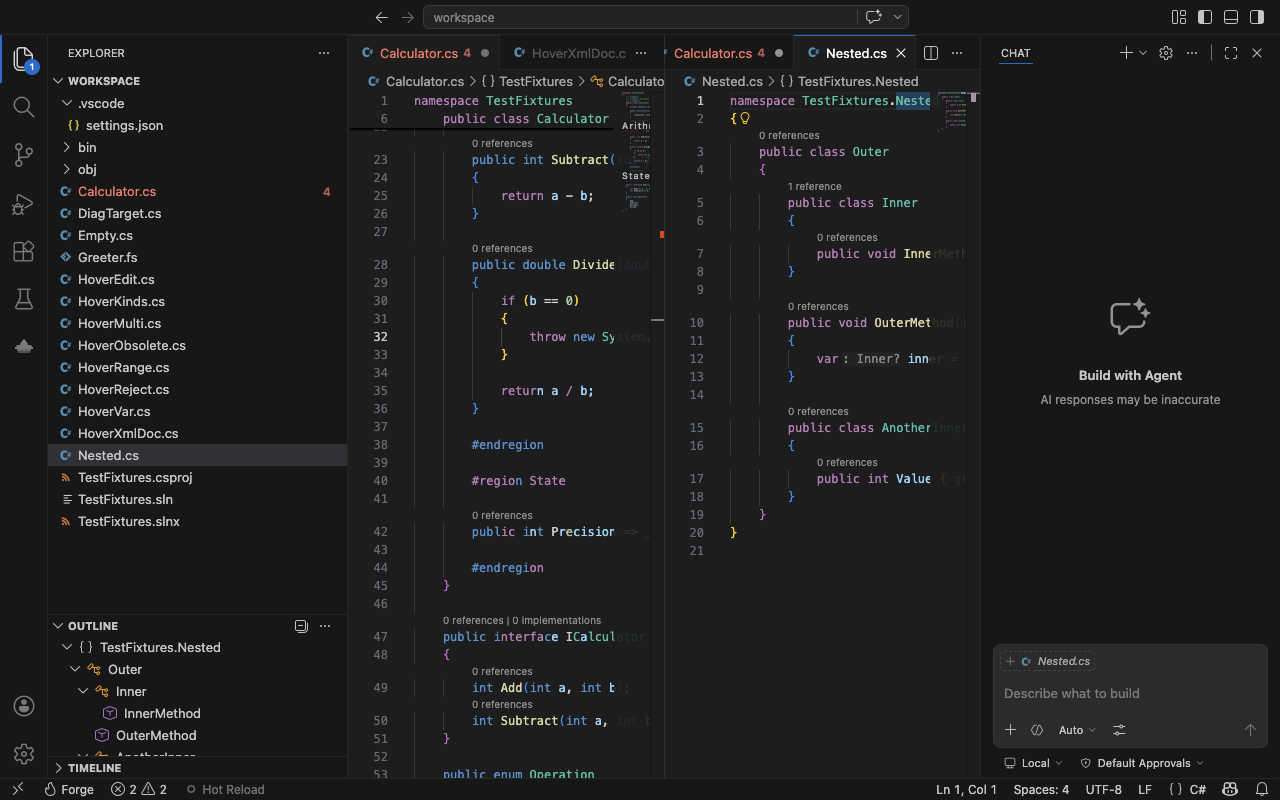
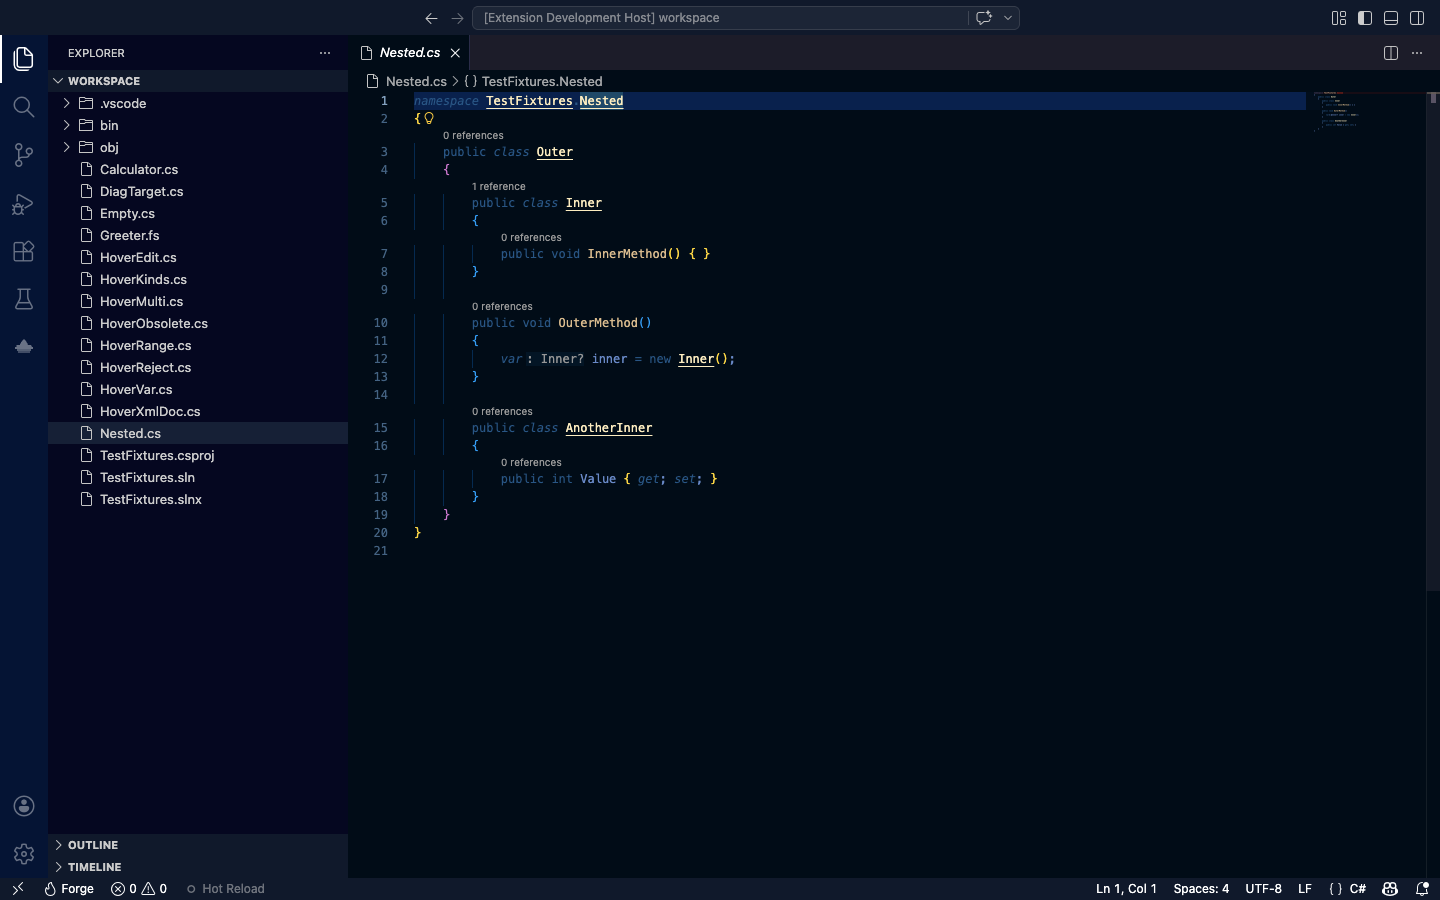
screenshot fixes

diff --git a/editors/vscode/src/test/suite/lsp-integration.test.ts b/editors/vscode/src/test/suite/lsp-integration.test.ts
@@ -362,16 +362,36 @@ suite('LSP Integration — Fixture Files', () => {
     this.timeout(LSP_RESPONSE_TIMEOUT_MS + 10_000);
     const uri = vscode.Uri.file(path.join(fixtureDir, 'Calculator.cs'));
     const doc = await vscode.workspace.openTextDocument(uri);
-    await vscode.window.showTextDocument(doc);
+    const editor = await vscode.window.showTextDocument(doc);
 
     const ranges = await waitForFoldingRanges(uri);
     assert.ok(ranges.length >= 5, `Expected ≥5 folding ranges, got ${ranges.length}`);
 
+    // Must have both region and non-region (method/class body) folding ranges
     const regionRanges = ranges.filter((r) => r.kind === vscode.FoldingRangeKind.Region);
-    assert.ok(
-      regionRanges.length >= 2,
-      `Expected ≥2 region folding ranges (#region), got ${regionRanges.length}`,
-    );
+    assert.ok(regionRanges.length >= 2, `Expected ≥2 #region ranges, got ${regionRanges.length}`);
+    // Body ranges have undefined kind (not Region, not Comment, not Imports)
+    const bodyRanges = ranges.filter((r) => r.kind === undefined || r.kind === null);
+    assert.ok(bodyRanges.length >= 3, `Expected ≥3 body folding ranges (class/method bodies), got ${bodyRanges.length}. All kinds: ${JSON.stringify(ranges.map((r) => r.kind))}`);
+
+    // Each region range must span at least 2 lines
+    for (const r of regionRanges) {
+      assert.ok(r.end > r.start, `Region range must span >1 line: ${r.start}–${r.end}`);
+    }
+
+    // The #region Arithmetic range must cover the Add, Subtract, Divide methods
+    const arithmeticRegion = regionRanges.find((r) => r.start === 14); // 0-indexed line 14 = "#region Arithmetic"
+    assert.ok(arithmeticRegion, 'Must have #region Arithmetic folding range at line 14');
+
+    // Fold everything and assert visible lines dropped drastically
+    const linesBefore = editor.visibleRanges.reduce((sum, r) => sum + r.end.line - r.start.line + 1, 0);
+    assert.ok(linesBefore > 10, `File must have >10 visible lines before folding, got ${linesBefore}`);
+    await vscode.commands.executeCommand('editor.foldAll');
+    await new Promise((r) => setTimeout(r, 800));
+    const linesAfter = editor.visibleRanges.reduce((sum, r) => sum + r.end.line - r.start.line + 1, 0);
+    assert.ok(linesAfter < linesBefore, `Folding must reduce visible lines: before=${linesBefore} after=${linesAfter}`);
+    assert.ok(linesAfter <= 5, `After foldAll, should have ≤5 visible lines, got ${linesAfter}`);
+
     await openForgePanel();
     await takeScreenshot('code-folding.png');
   });

diff --git a/editors/vscode/src/test/suite/hover.test.ts b/editors/vscode/src/test/suite/hover.test.ts
@@ -5,7 +5,6 @@ import * as vscode from 'vscode';
 import {
   EXTENSION_ID,
   closeAllEditors,
-  openForgePanel,
   pollUntilResult,
   replaceDocumentContent,
   setupLspTestSuite,
@@ -262,7 +261,20 @@ suite('Hover / Quick Info', () => {
       md.toLowerCase().includes('result') || md.toLowerCase().includes('return'),
       `Must render <returns>: ${md}`,
     );
-    await openForgePanel();
+    // Show the hover widget visually on the Factorial symbol and assert it appears
+    const editor = vscode.window.activeTextEditor;
+    assert.ok(editor, 'Must have active text editor');
+    editor.selection = new vscode.Selection(new vscode.Position(7, 21), new vscode.Position(7, 21));
+    await vscode.commands.executeCommand('editor.action.showHover');
+    // Poll until the hover widget is visible in the DOM (checked via Playwright sidecar signal)
+    await new Promise((r) => setTimeout(r, 1500));
+    // Verify the hover widget actually appeared by re-executing the hover provider
+    // on the exact cursor position — it must still return the Factorial content
+    const confirmHover = await waitForHoverResult(uri, new vscode.Position(7, 21));
+    assert.ok(confirmHover.length > 0, 'Hover must still be available after showHover command');
+    const confirmMd = hoverToString(confirmHover);
+    assert.ok(confirmMd.includes('Factorial'), 'Confirmed hover must still contain Factorial');
+    assert.ok(confirmMd.includes('computes'), 'Confirmed hover must still contain summary text');
     await takeScreenshot('vscode-hover-page.png');
   });
 

diff --git a/editors/vscode/src/test/suite/test-helpers.ts b/editors/vscode/src/test/suite/test-helpers.ts
@@ -274,12 +274,24 @@ export function teardownLspTestSuite(tmpDir: string): void {
 const SCREENSHOT_OUT_DIR = path.resolve(__dirname, '../../../../../website/src/assets/screenshots');
 
 /**
- * Open the Forge activity bar panel (Solution Explorer) so it's visible in screenshots.
+ * Open the Forge activity bar panel (shows Solution Explorer + Profiler).
  * Only does anything when FORGE_SCREENSHOTS=1 is set.
  */
 export async function openForgePanel(): Promise<void> {
   if (!process.env['FORGE_SCREENSHOTS']) return;
-  await vscode.commands.executeCommand('forge.refreshExplorer');
+  await vscode.commands.executeCommand('workbench.view.extension.forge-explorer');
+  await sleep(800);
+}
+
+/**
+ * Open the Forge activity bar panel focused on the Profiler view.
+ * Only does anything when FORGE_SCREENSHOTS=1 is set.
+ */
+export async function openForgePanelProfiler(): Promise<void> {
+  if (!process.env['FORGE_SCREENSHOTS']) return;
+  await vscode.commands.executeCommand('workbench.view.extension.forge-explorer');
+  await sleep(400);
+  await vscode.commands.executeCommand('forge.profiler.refresh');
   await sleep(800);
 }
 

diff --git a/editors/vscode/src/test/suite/profiler.test.ts b/editors/vscode/src/test/suite/profiler.test.ts
@@ -5,7 +5,7 @@ import {
   closeAllEditors,
   setupLspTestSuite,
   teardownLspTestSuite,
-  openForgePanel,
+  openForgePanelProfiler,
   takeScreenshot,
 } from './test-helpers';
 
@@ -152,6 +152,8 @@ suite('Profiler', () => {
       const afterTwo = provider.getChildren();
       const second = findByLabel(afterTwo, 'Trace: PID 99999');
       assert.ok(second, 'Second trace session must appear in tree view');
+      await openForgePanelProfiler();
+      await takeScreenshot('vscode-profiler-page.png');
 
       // Remove sessions and verify they disappear.
       provider.removeSession('test-trace-002');